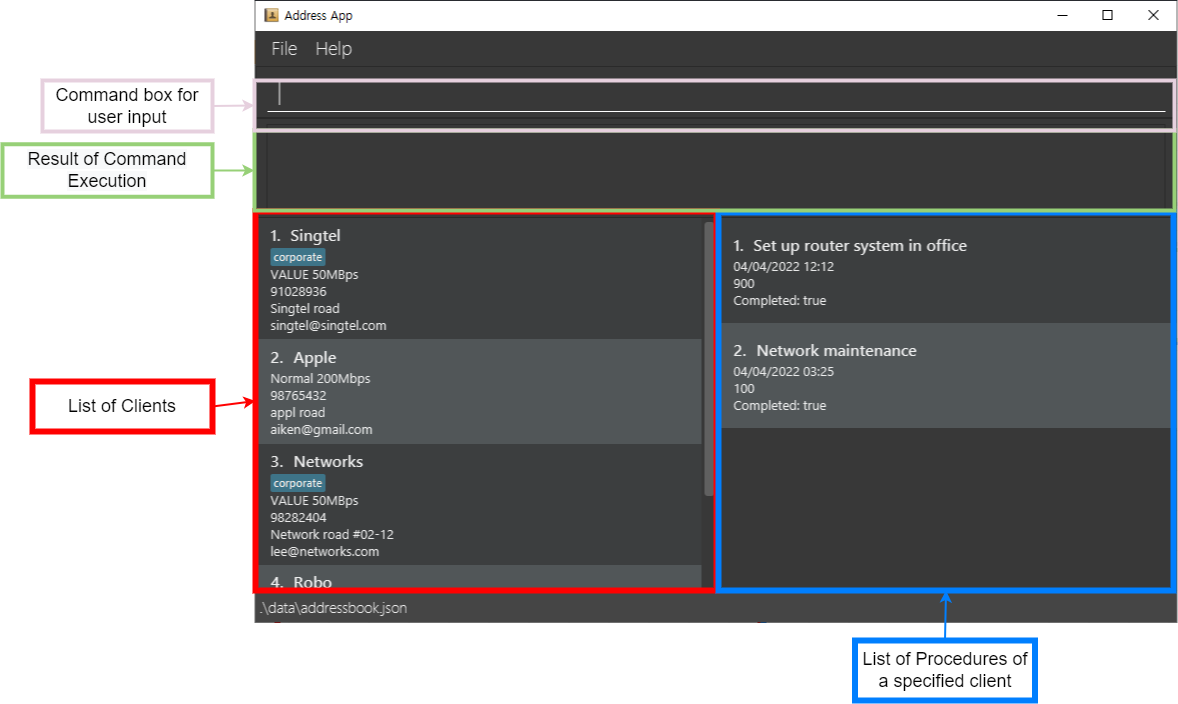
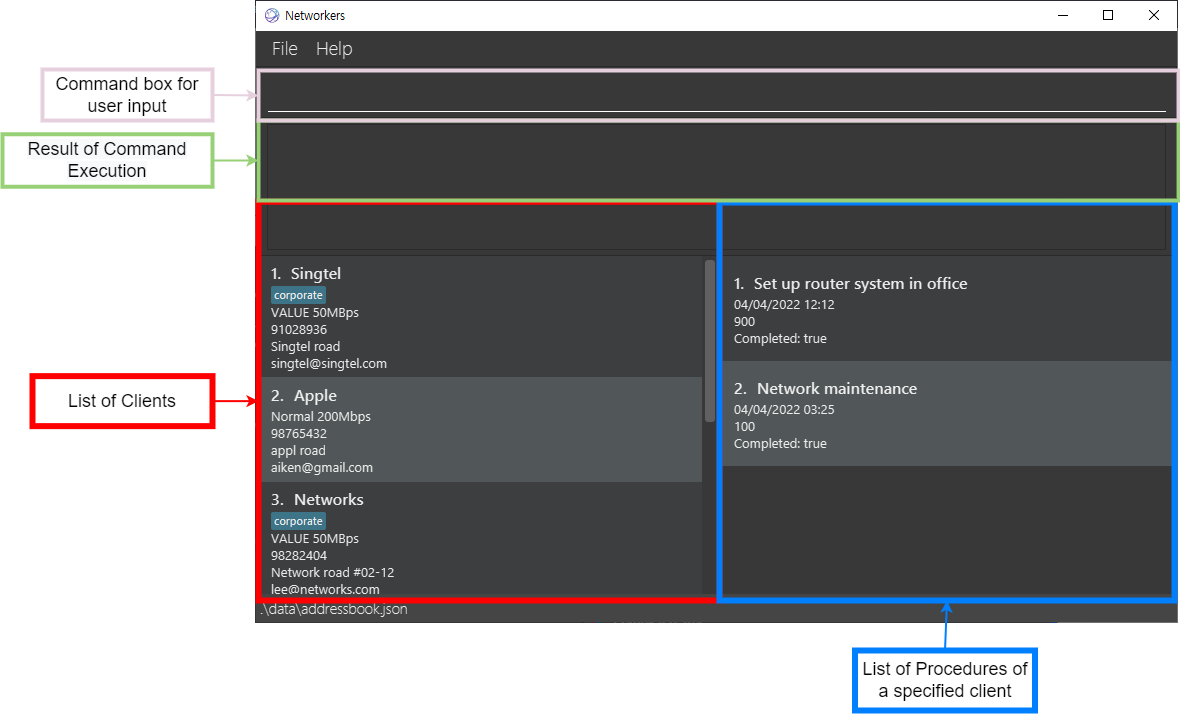
Change screenshots to newer version

Changed region(s): [[0.0, 0.0, 1.0, 1.0], [0.2139, 0.0, 0.3056, 0.0312], [0.9168, 0.0, 0.9474, 0.0312]]

diff --git a/docs/UserGuide.md b/docs/UserGuide.md
@@ -116,7 +116,7 @@ Deletes a specified Client in Networkers.
 
 **Example:** <br/>
 In Command Line Interface (CLI):
-- `deleteClient 1` 
+- `deleteClient 5` 
   - This triggers the deletion of the first Client in your Client list.
   - Result shows: `Deleted Client: Apple; Phone: 91234561; Email: apple@example.com; Address: 311, Bedok Ave 3, #01-15; Plan: Plan 50GBps; Tags: [corporate]`
 
@@ -304,7 +304,7 @@ Clears all Clients and their respective Procedures currently recorded in Network
 - `clear` refers to the command of clearing all Clients and their respective Procedures in the application.
   - Result shows: `Address book has been cleared!`
 
-In Application: ![clear](images/clearCommand_After.png)
+In Application: ![clear](images/ClearCommand_After.png)
 
 ### Locating Clients by Name: `find`
 
